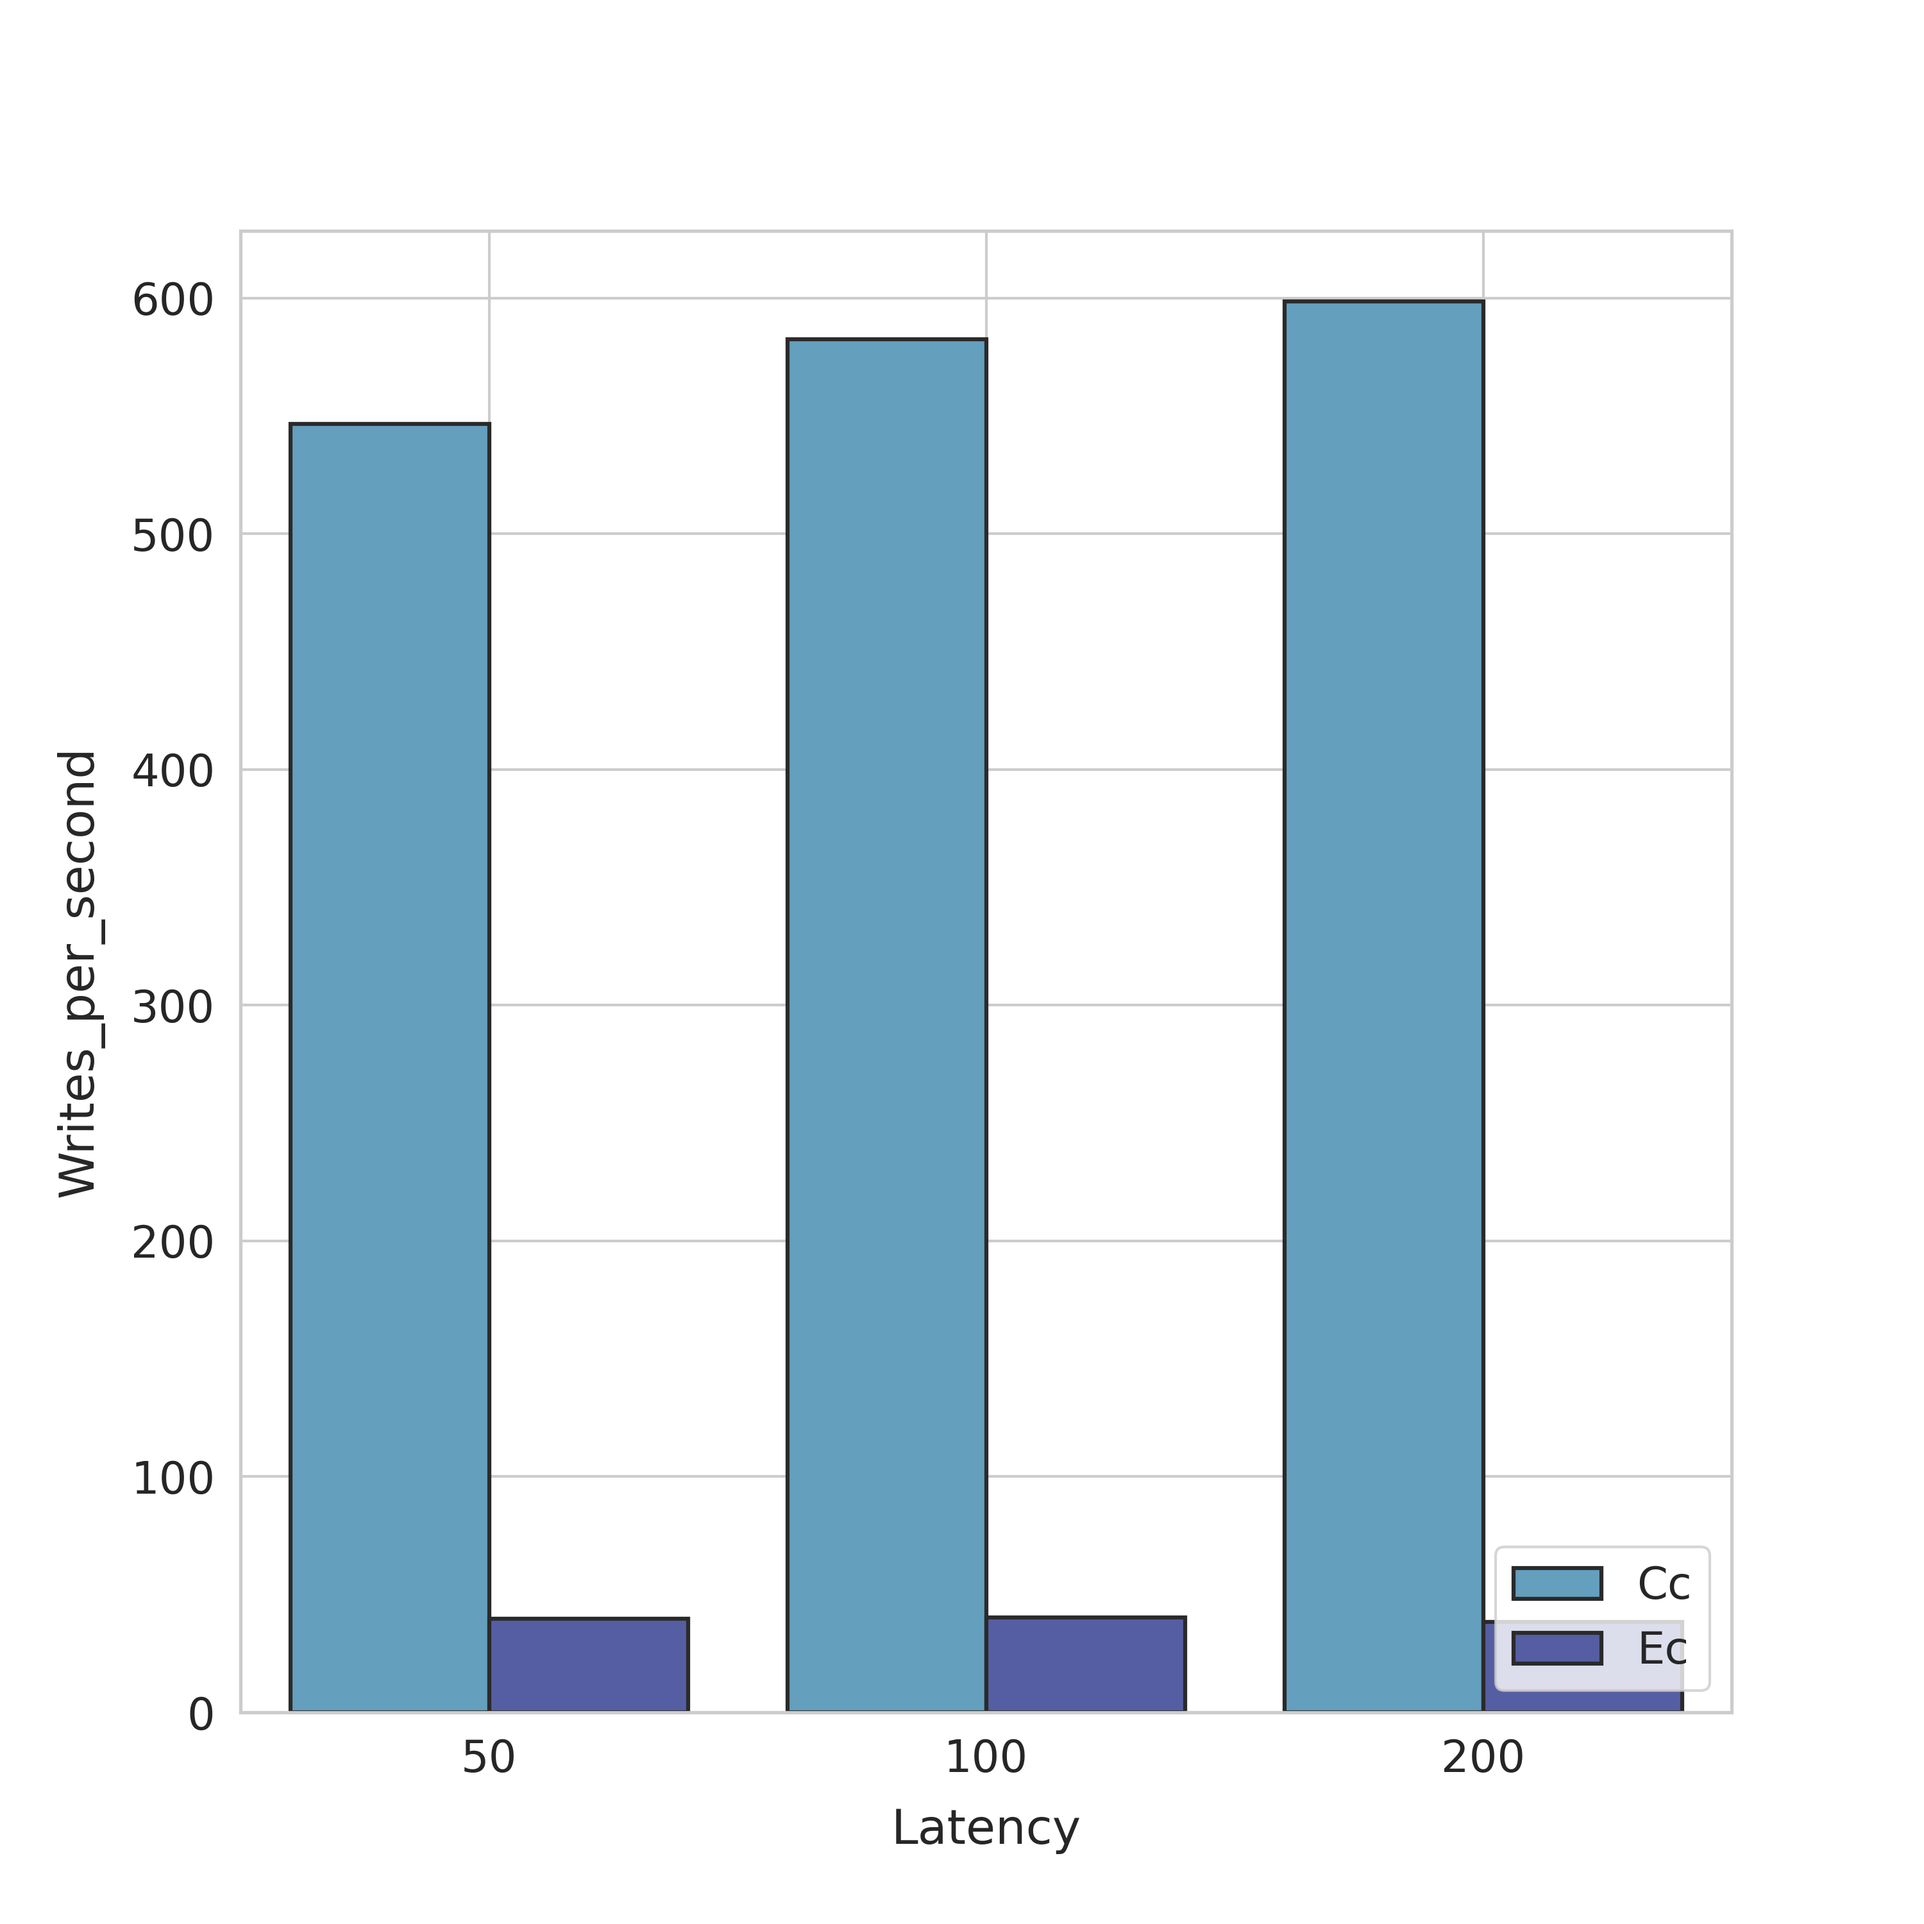
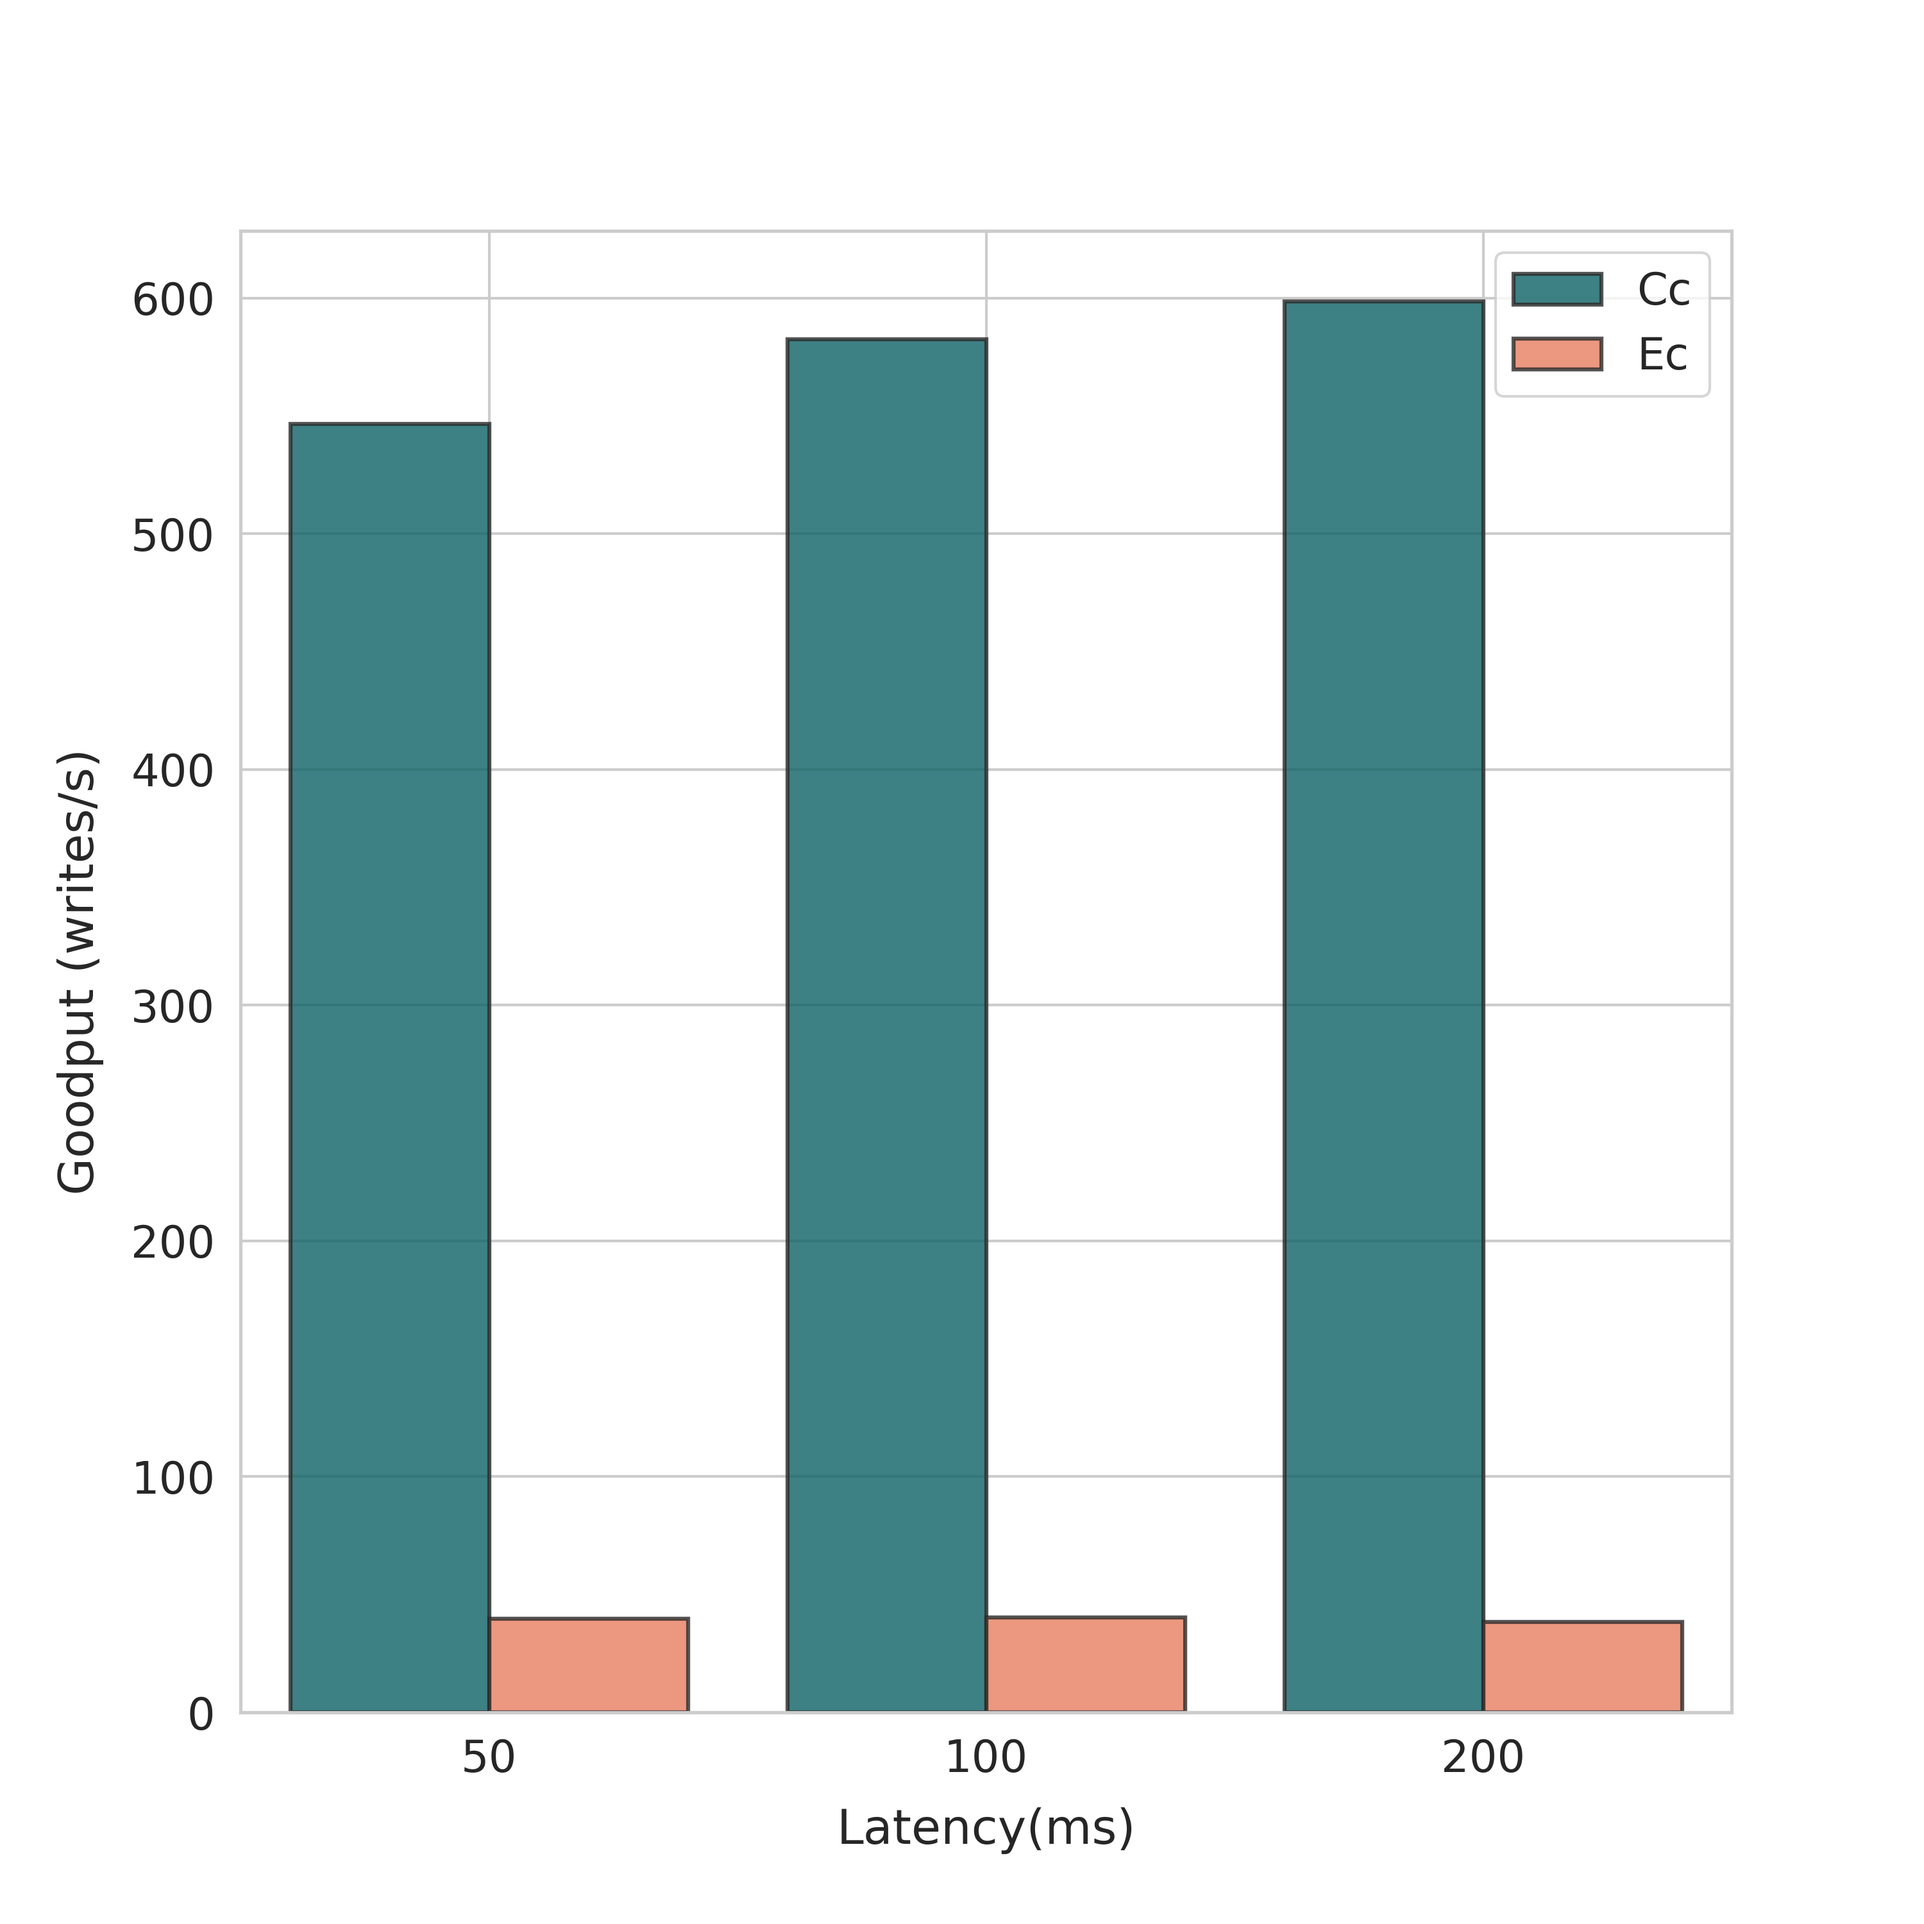
Fix labels in latency and goodput plots

diff --git a/evaluation/latency.py b/evaluation/latency.py
@@ -31,8 +31,8 @@ def latency_evaluation():
 
     # Latency distribution boxplots
     df = pd.concat(dfs).reset_index(drop=True)
-    latency_boxplot(df, outliers=False, interval=5, fig_size=(15, 7))
-    latency_boxplot(df, outliers=True, interval=10, fig_size=(20, 7))
+    latency_boxplot(df, outliers=False, interval=5, fig_size=(7, 10))
+    latency_boxplot(df, outliers=True, interval=10, fig_size=(7, 20))
 
     # TODO: rethink the scales of this plot
     # Latency histogram
@@ -76,13 +76,13 @@ def latency_distribution_table(df_ev_latency, df_cc_latency, delay):
 
 def latency_boxplot(df, outliers = False, interval = 5, fig_size = (10, 10)):
     _, ax = plt.subplots(figsize=fig_size)
-    sns.boxplot(data=df, x="latency", y="goodput", hue="consistency", showfliers=outliers)
+    sns.boxplot(data=df, x="goodput", y="latency", hue="consistency", showfliers=outliers)
     ax.xaxis.grid(True)
     ax.xaxis.set_major_locator(ticker.MultipleLocator(base=interval))
-    ax.set_xlabel(ax.get_xlabel().capitalize(), labelpad=10)
-    ax.set_ylabel(ax.get_ylabel().capitalize(), labelpad=10)
+    ax.set_xlabel(ax.get_xlabel().capitalize() + " (writes/s)", labelpad=10)
+    ax.set_ylabel(ax.get_ylabel().capitalize() + " (ms)", labelpad=10)
     handles, labels = ax.get_legend_handles_labels()
-    ax.legend(handles, [label.capitalize() for label in labels], loc="lower right")
+    ax.legend(handles, [label.capitalize() for label in labels], loc="upper right")
     plt.savefig(RESULT_PATH + '/latency_boxplot' + ('_outliers' if outliers else '') + '.png', dpi=300)
     plt.clf()
 
@@ -98,10 +98,10 @@ def latency_average_barplot(df):
     grouped_data = df.groupby(["goodput", "consistency"])["latency"]
     average_latency = grouped_data.mean().reset_index()
 
-    sns.barplot(data=average_latency, x="goodput", y="latency", hue="consistency", width=0.8, edgecolor="#2a2a2a", linewidth=1.5, order=['5', '10', '20'])
+    sns.barplot(data=average_latency, x="goodput", y="latency", hue="consistency", width=0.8, edgecolor="#2a2a2a", linewidth=1.5, order=['5', '10', '20'], alpha=0.8)
     ax.xaxis.grid(True)
-    ax.set_xlabel(ax.get_xlabel().capitalize(), labelpad=10)
-    ax.set_ylabel(ax.get_ylabel().capitalize(), labelpad=10)
+    ax.set_xlabel(ax.get_xlabel().capitalize() + " (writes/s)", labelpad=10)
+    ax.set_ylabel(ax.get_ylabel().capitalize() + " (ms)", labelpad=10)
     handles, labels = ax.get_legend_handles_labels()
     ax.legend(handles, [label.capitalize() for label in labels], loc="lower right")
     plt.savefig(RESULT_PATH + '/latency_barplot.png', dpi=300)
@@ -119,15 +119,15 @@ def latency_throughput_relation(df):
         (5, 5)]
 
     sns.lineplot(data=df, x="goodput", y="latency", hue="consistency", style="consistency", markers=['s', 'o'], dashes=[linestyles[0], linestyles[0]],
-                 markersize=6, estimator=estimator_99, errorbar=None, linewidth=2, legend=False)
+                 markersize=6, estimator=estimator_99, errorbar=None, linewidth=2, legend=False, markeredgewidth=1, markeredgecolor='#2a2a2a')
     sns.lineplot(data=df, x="goodput", y="latency", hue="consistency", style="consistency", markers=['s', 'o'], dashes=[linestyles[1], linestyles[1]],
-                 markersize=8, estimator=estimator_95, errorbar=None, linewidth=2, legend=False)
+                 markersize=8, estimator=estimator_95, errorbar=None, linewidth=2, legend=False, markeredgewidth=1, markeredgecolor='#2a2a2a')
     sns.lineplot(data=df, x="goodput", y="latency", hue="consistency", style="consistency", markers=['s', 'o'], dashes=[linestyles[2], linestyles[2]],
-                 markersize=10, estimator=np.mean, errorbar=None, linewidth=2, legend=False)
+                 markersize=10, estimator=np.mean, errorbar=None, linewidth=2, legend=False, markeredgewidth=1, markeredgecolor='#2a2a2a')
 
     ax.xaxis.grid(True)
-    ax.set_xlabel(ax.get_xlabel().capitalize(), labelpad=10)
-    ax.set_ylabel(ax.get_ylabel().capitalize(), labelpad=10)
+    ax.set_xlabel(ax.get_xlabel().capitalize() + " (writes/s)", labelpad=10)
+    ax.set_ylabel(ax.get_ylabel().capitalize() + " (ms)", labelpad=10)
     handles, labels = ax.get_legend_handles_labels()
     ax.legend(handles, [label.capitalize() for label in labels], loc="lower right")
     plt.savefig(RESULT_PATH + '/latency_with_throughput.png', dpi=300)

diff --git a/evaluation/goodput.py b/evaluation/goodput.py
@@ -32,12 +32,12 @@ def goodput_evaluation():
     df = pd.concat(dfs).reset_index(drop=True)
 
     # Goodput barplot
-    goodput_average_barplot(df, 'writes_per_second')
-    goodput_average_barplot(df, 'bytes_per_second')
+    goodput_average_barplot(df, 'writes_per_second', 'Goodput (writes/s)')
+    goodput_average_barplot(df, 'bytes_per_second', 'Goodput (bytes/s)')
 
     # Goodput latency relation
-    goodput_latency_relation(df, 'writes_per_second')
-    goodput_latency_relation(df, 'bytes_per_second')
+    goodput_latency_relation(df, 'writes_per_second', 'Goodput (erites/s)')
+    goodput_latency_relation(df, 'bytes_per_second', 'Goodput (bytes/s)')
     
 
 def get_goodput_times(path, delay):
@@ -70,21 +70,21 @@ def goodput_distribution_table(df_ev_goodput, df_cc_goodput, delay):
     plt.savefig(RESULT_PATH + '/goodput_table_' + str(delay) + '.png', dpi=300, bbox_inches='tight')
     plt.clf()
 
-def goodput_average_barplot(df, goodput_var):
+def goodput_average_barplot(df, goodput_var, ylabel):
     _, ax = plt.subplots(figsize=(10, 10))
     grouped_data = df.groupby(["latency", "consistency"])[goodput_var]
     average_goodput = grouped_data.mean().round(2).reset_index()
 
-    sns.barplot(data=average_goodput, x="latency", y=goodput_var, hue="consistency", width=0.8, edgecolor="#2a2a2a", linewidth=1.5, order=['50', '100', '200'])
+    sns.barplot(data=average_goodput, x="latency", y=goodput_var, hue="consistency", width=0.8, edgecolor="#2a2a2a", linewidth=1.5, order=['50', '100', '200'], alpha=0.8)
     ax.xaxis.grid(True)
-    ax.set_xlabel(ax.get_xlabel().capitalize(), labelpad=10)
-    ax.set_ylabel(ax.get_ylabel().capitalize(), labelpad=10)
+    ax.set_xlabel(ax.get_xlabel().capitalize() + " (ms)", labelpad=10)
+    ax.set_ylabel(ylabel, labelpad=10)
     handles, labels = ax.get_legend_handles_labels()
-    ax.legend(handles, [label.capitalize() for label in labels], loc="lower right")
+    ax.legend(handles, [label.capitalize() for label in labels], loc="upper right")
     plt.savefig(RESULT_PATH + '/' + goodput_var + '_barplot.png', dpi=300)
     plt.clf() 
 
-def goodput_latency_relation(df, goodput_var):
+def goodput_latency_relation(df, goodput_var, ylabel):
     _, ax = plt.subplots(figsize=(10, 10))
 
     estimator_99 = lambda data: np.percentile(data, 99)
@@ -102,8 +102,8 @@ def goodput_latency_relation(df, goodput_var):
                  markersize=10, estimator=np.mean, errorbar=None, linewidth=2, legend=False)
     
     ax.xaxis.grid(True)
-    ax.set_xlabel(ax.get_xlabel().capitalize(), labelpad=10)
-    ax.set_ylabel(ax.get_ylabel().capitalize(), labelpad=10)
+    ax.set_xlabel(ax.get_xlabel().capitalize() + " (ms)", labelpad=10)
+    ax.set_ylabel(ylabel, labelpad=10)
     handles, labels = ax.get_legend_handles_labels()
     ax.legend(handles, [label.capitalize() for label in labels], loc="lower right")
     plt.savefig(RESULT_PATH + '/' + goodput_var + '_with_latency.png', dpi=300)

diff --git a/evaluation/main.py b/evaluation/main.py
@@ -7,7 +7,8 @@ from goodput import goodput_evaluation
 if __name__ == '__main__':
     mpl.rcParams['font.family'] = 'Verdana'
     sns.set(font_scale=1.5, style='whitegrid')
-    sns.set_palette("icefire")
+    palette = ["#006f73", "#ff7349"]
+    sns.set_palette(palette)
 
     latency_evaluation()
     goodput_evaluation()
